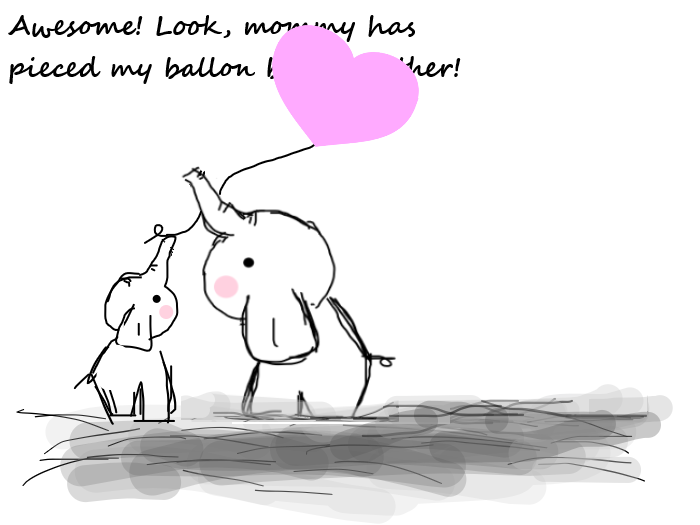
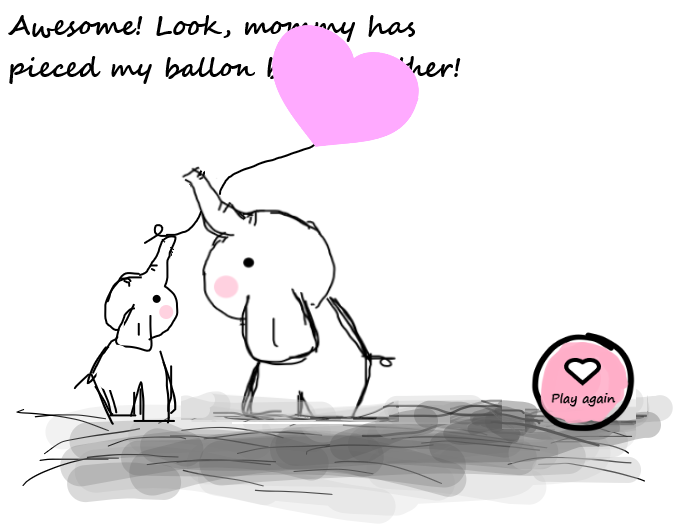
Add Play again button update readme

Changed region(s): [[0.63, 0.6095, 0.93, 0.8533]]

diff --git a/Hw/Midterm/sketch.js b/Hw/Midterm/sketch.js
@@ -1,247 +1,7 @@
-// var frameAmounts = 18;
-// var frameArray=[];
-// var currentFrame=0;
-// var interval = 500; // 2000 means 2 seconds
-// var prevMillis = 0;
-//
-// var heart;
-// var xPos = 300;
-// var yPos = 0;
-// var trigger = false;
-// var speed = 3;
-//
-//
-// var transition1 = true;
-// var play= false;
-// var winner = false;
-// var end = false;
-//
-// var numberOfHearts = 4;
-// var numberOfCatchedHearts = 0;
-// var heartsArray;
-//
-// function preload (){
-//
-//   for (var frames=0; frames < frameAmounts; frames++){
-//     var frameString = "AssetsElephant/" + frames + ".png";
-//     frameArray[frames] = loadImage(frameString);
-//   }
-//   heart = loadImage('AssetsElephant/heart.png');
-//   heartsArray = {
-//                   "heart1":[300,0,15,3,true],
-//                   "heart2":[200,0,17,1,true],
-//                   "heart3":[400,-20,20,3,true],
-//                   "heart4":[400,-0,25,4,true]
-//   }
-// }
-//
-// function setup(){
-//   createCanvas(700,525);
-//
-// }
-//
-// function draw(){
-//
-//   if (transition1 == true && play == false && winner == false){
-//     image (frameArray[currentFrame],0,0);
-//     if (millis() - prevMillis > interval){
-//       currentFrame++;
-//       prevMillis = millis();
-//     }
-//
-//     if (currentFrame == 10){
-//       play=true;
-//       transition1 = false;
-//     }
-//   }
-//
-//   if (transition1 == false && play == true && winner == false){
-//
-//       image (frameArray[10],0,0);
-//       for (var keys in heartsArray){
-//           console.log(keys + " values:" + heartsArray[keys]);
-//           if (heartsArray[keys][4] == true){
-//             image(heart,heartsArray[keys][0], heartsArray[keys][1], heart.width/heartsArray[keys][2], heart.height/heartsArray[keys][2]);
-//              heartsArray[keys][1]+=heartsArray[keys][3];
-//
-//               if (heartsArray[keys][1] > height){
-//                 play = false;
-//                 winner = false;
-//               }
-//           }
-//         }
-//   }
-//
-//   if (transition1 == false && play == false && winner == true && end==false){
-//     image (frameArray[currentFrame],0,0);
-//            if (millis() - prevMillis > interval){
-//              currentFrame++;
-//              prevMillis = millis();
-//            }
-//
-//            if (currentFrame == 17){
-//              end=true;
-//            }
-//   }
-//
-//   if (transition1==false && play==false && winner== true && end==true){
-//     image (frameArray[17],0,0);
-//   }
-//
-//
-//   if (transition1 == false && play == false && winner == false) {
-//     image (frameArray[11],0,0);
-//   }
-//
-// }
-//
-// function mousePressed(){
-//   for (keys in heartsArray){
-//     var heartDist = dist(mouseX, mouseY, heartsArray[keys][0], heartsArray[keys][1]);
-//     if (heartDist < heart.width/heartsArray[keys][2]){
-//       heartsArray[keys][4] = false;
-//       numberOfCatchedHearts++;
-//     }
-//
-//   }
-//
-//   if (numberOfCatchedHearts == numberOfHearts) {
-//     winner = true;
-//     currentFrame = 12;
-//     play = false;
-//   }
-// }
-
-//random numero de corazones
-
-// var frameAmounts = 18;
-// var frameArray=[];
-// var currentFrame=0;
-// var interval = 500; // 2000 means 2 seconds
-// var prevMillis = 0;
-//
-// var heart;
-// var xPos = 300;
-// var yPos = 0;
-// var trigger = false;
-// var speed = 3;
-//
-//
-// var transition1 = true;
-// var play= false;
-// var winner = false;
-// var end = false;
-//
-// var numberOfHearts = 0;
-// var numberOfCatchedHearts = 0;
-// var heartsArray = [];
-//
-// function preload (){
-//
-//   for (var frames=0; frames < frameAmounts; frames++){
-//     var frameString = "AssetsElephant/" + frames + ".png";
-//     frameArray[frames] = loadImage(frameString);
-//   }
-//   heart = loadImage('AssetsElephant/heart.png');
-// }
-//
-// function setup(){
-//   createCanvas(700,525);
-//   numberOfHearts = int(random(1,5));
-//   for (var i=0; i<numberOfHearts; i++){
-//     heartsArray.push(new heartGenerator());
-//   }
-// }
-//
-// function heartGenerator() {
-//   this.x = random(600);
-//   this.y = 0;
-//   this.width = random(5,15);
-//   this.speed = random(1,5);
-//   this.show = true;
-// }
-//
-// function draw(){
-//
-//
-//   if (transition1 == true && play == false && winner == false){
-//     image (frameArray[currentFrame],0,0);
-//     if (millis() - prevMillis > interval){
-//       currentFrame++;
-//       prevMillis = millis();
-//     }
-//
-//     if (currentFrame == 10){
-//       play=true;
-//       transition1 = false;
-//     }
-//   }
-//
-//   if (transition1 == false && play == true && winner == false){
-//
-//       image (frameArray[10],0,0);
-//       for (var i=0; i<heartsArray.length; i++){
-//          console.log("number of hearts:" + numberOfHearts);
-//           console.log(heartsArray[i].x);
-//           if (heartsArray[i].show == true){
-//             image(heart,heartsArray[i].x, heartsArray[i].y, heart.width/heartsArray[i].width, heart.height/heartsArray[i].width);
-//              heartsArray[i].y+=heartsArray[i].speed;
-//
-//               if (heartsArray[i].y > height){
-//                 play = false;
-//                 winner = false;
-//               }
-//           }
-//         }
-//   }
-//
-//   if (transition1 == false && play == false && winner == true && end==false){
-//     image (frameArray[currentFrame],0,0);
-//            if (millis() - prevMillis > interval){
-//              currentFrame++;
-//              prevMillis = millis();
-//            }
-//
-//            if (currentFrame == 17){
-//              end=true;
-//            }
-//   }
-//
-//   if (transition1==false && play==false && winner== true && end==true){
-//     image (frameArray[17],0,0);
-//   }
-//
-//
-//   if (transition1 == false && play == false && winner == false) {
-//     image (frameArray[11],0,0);
-//
-//   }
-//
-// }
-//
-// function mousePressed(){
-//   for (var i=0; i<heartsArray.length; i++){
-//     var heartDist = dist(mouseX, mouseY, heartsArray[i].x, heartsArray[i].y);
-//     if (heartDist < heart.width/heartsArray[i].width){
-//       heartsArray[i].show = false;
-//       numberOfCatchedHearts++;
-//     }
-//
-//   }
-//
-//   if (numberOfCatchedHearts == numberOfHearts) {
-//     winner = true;
-//     currentFrame = 12;
-//     play = false;
-//   }
-// }
-
-//button restart game
-
 var frameAmounts = 18;
 var frameArray=[];
 var currentFrame=0;
-var interval = 500; // 2000 means 2 seconds
+var interval = 450; // 2000 means 2 seconds
 var prevMillis = 0;
 
 var heart;
@@ -337,7 +97,7 @@ function draw(){
 
   if (transition1==false && play==false && winner== true && end==true){
     image (frameArray[17],0,0);
-
+    //ellipse (580,380,80,80);
   }
 
 
@@ -380,6 +140,24 @@ function mousePressed(){
         heartsArray.push(new heartGenerator());
       }
     }
-    //rect (515,450,150,50);
+  }
+
+  if (transition1==false && play==false && winner== true && end==true){
+    var cDist = dist(580, 380, mouseX, mouseY);
+    if (cDist<150){
+      transition1=true;
+      play=false;
+      winner=false;
+      end=false;
+      currentFrame = 0;
+      numberOfHearts = 0;
+      numberOfCatchedHearts = 0;
+      heartsArray = [];
+
+      numberOfHearts = int(random(1,5));
+      for (var i=0; i<numberOfHearts; i++){
+        heartsArray.push(new heartGenerator());
+      }
+    }
   }
 }

diff --git a/Hw/Midterm/readme.md b/Hw/Midterm/readme.md
@@ -1,20 +1,26 @@
 # Title
-Trompita and ballons
+### Let's play with Trompita! 
 
 # Explanation:
 * Why are you making this project? What is your motivation?
-
+The other day I was with my family at a store, when my little nephew and niece
 
 * What are your inputs?
   * Press each heart before they touch the background
-  * Press 'try again' button
+  * Press "try again" button
+  * Press "play again" button
 
 * What are your outputs?
   * Start game: Start animation of the balloon flying away
-  * Game over: Show screen to try again when one heart touches the background
+  * Hearts falling: Show random number of hearts falling from top of screen
+  * Heart touched: Disappear the heart images when the user touches them
+  * Lose game: Show screen of the character sad.
+  * Try again: Show try again button
   * Win game: Start animation when all little hearts disappear
 
+
 * Who is the target audience for your project?
-My target audience are kids from 3 to 7 years old. In this range of ages, kids will understand the logic of the game and also between these ages, kids tend to become bored very soon, thus, this game will be a fun way to keep little children busy while parents are buying! 
+<br> My target audience are kids from 3 to 7 years old. In this range of ages, kids will understand the logic of the game and also between these ages, kids tend to become bored quickly, thus, this game will be a fun way to keep little children busy while parents are buying!
 
 * Where will your project be displayed?
+I would project this game in big screens at family stores. I would use a screen as the one showed above.
